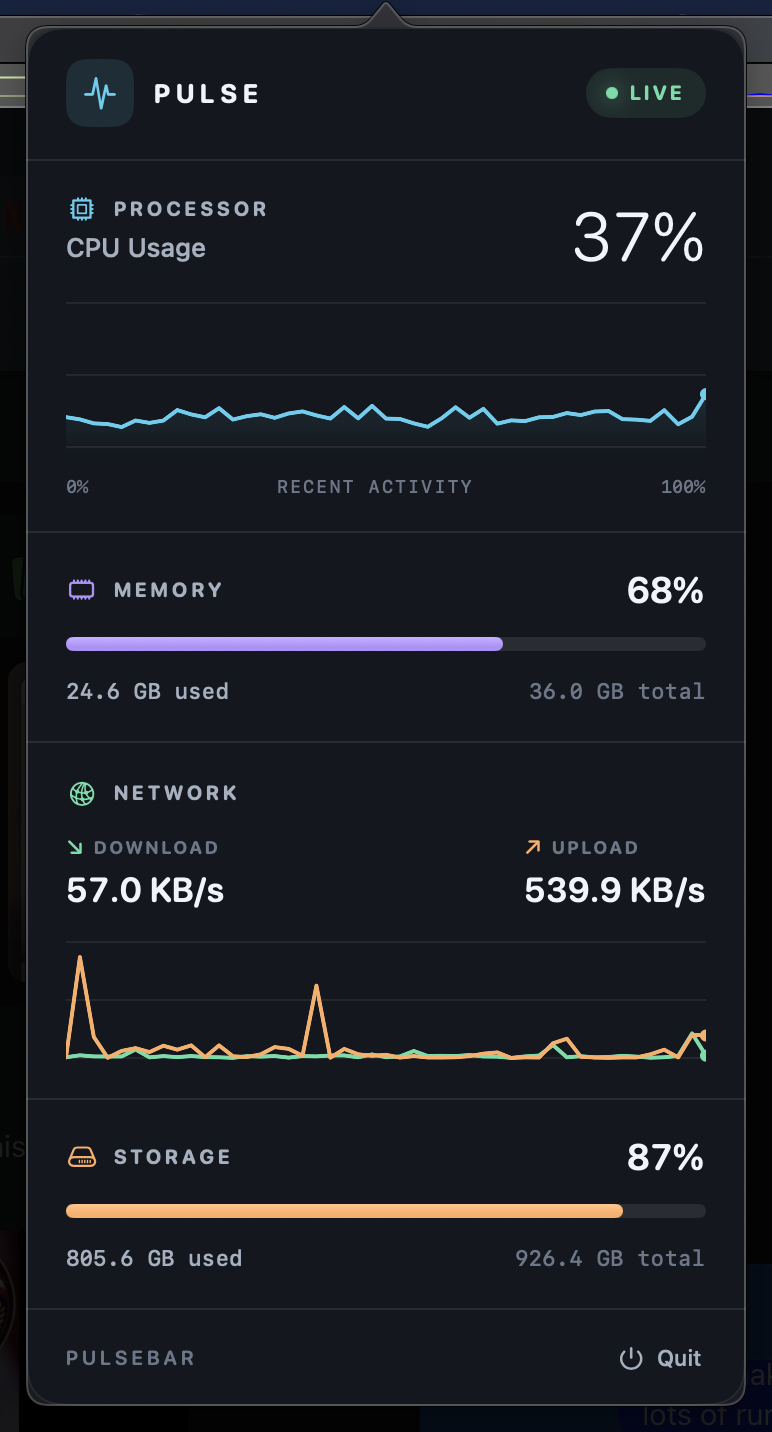
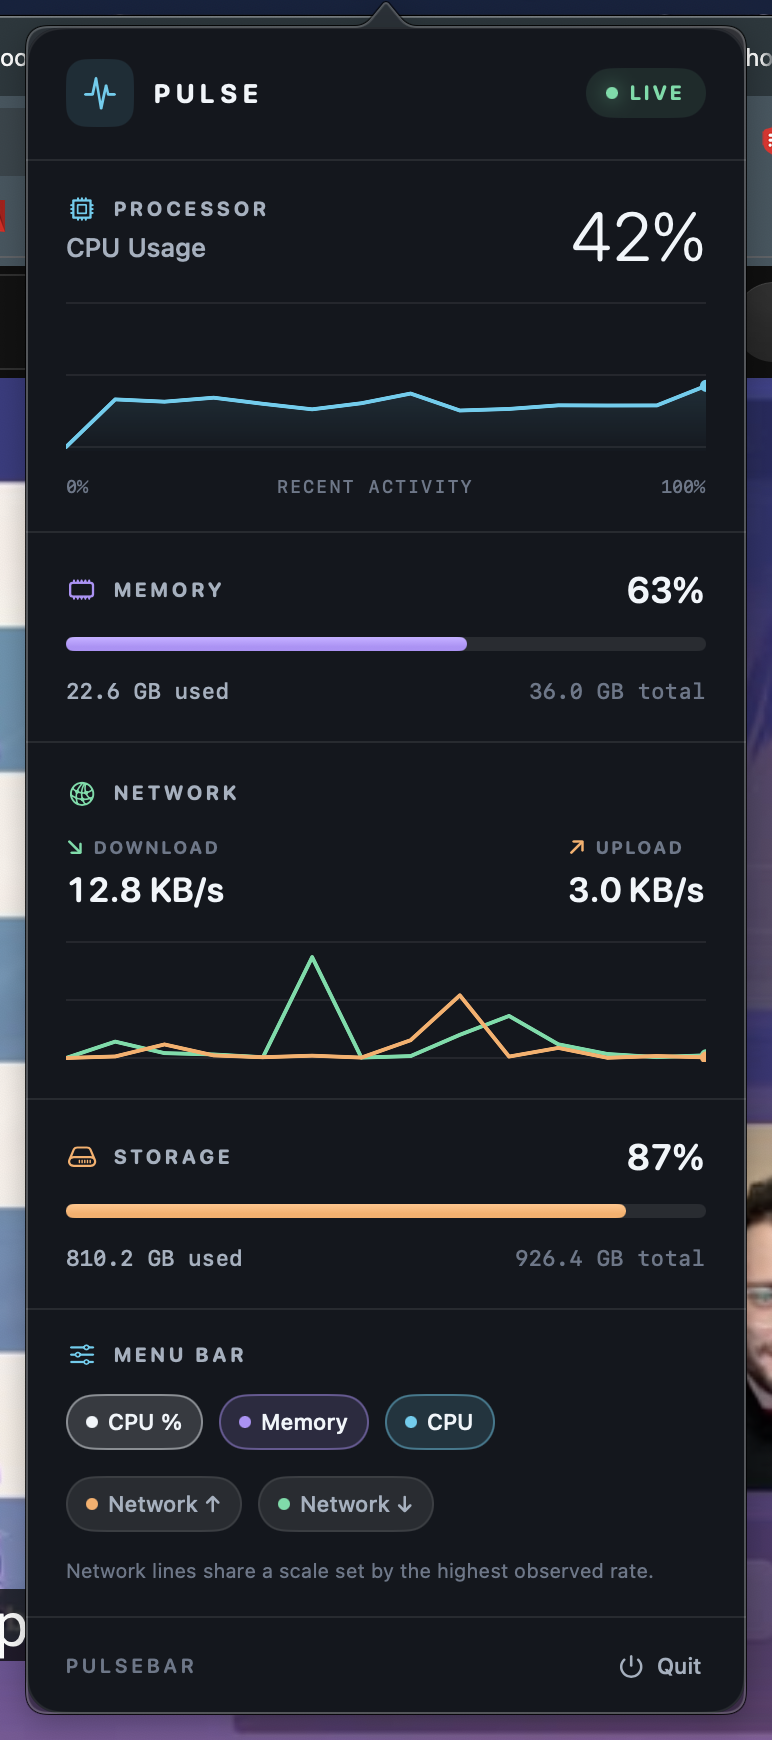
Add persistent menu bar graph and metric controls

diff --git a/Sources/PulseBar/App.swift b/Sources/PulseBar/App.swift
@@ -6,9 +6,11 @@ import SwiftUI
 @MainActor
 final class PulseBarApp: NSObject, NSApplicationDelegate {
     private let store = MonitorStore()
+    private let settings = DisplaySettings()
     private var statusItem: NSStatusItem?
     private let popover = NSPopover()
-    private var subscription: AnyCancellable?
+    private var subscriptions = Set<AnyCancellable>()
+    private var peakNetworkRate: Double = 0
 
     static func main() {
         let app = NSApplication.shared
@@ -30,18 +32,29 @@ final class PulseBarApp: NSObject, NSApplicationDelegate {
         popover.behavior = .transient
         popover.animates = true
         popover.contentSize = NSSize(width: 360, height: 590)
-        popover.contentViewController = NSHostingController(rootView: MonitorView(store: store))
+        popover.contentViewController = NSHostingController(rootView: MonitorView(store: store, settings: settings))
 
-        subscription = store.$history.sink { [weak self] history in
+        store.$history.dropFirst().sink { [weak self] history in
             guard let self else { return }
+            if let last = history.last {
+                self.peakNetworkRate = max(self.peakNetworkRate, last.upload, last.download)
+            }
             self.renderStatus(history)
-        }
+        }.store(in: &subscriptions)
+        settings.objectWillChange.sink { [weak self] _ in
+            // @Published emits before changing its property; render on the next main-loop turn.
+            DispatchQueue.main.async { [weak self] in
+                guard let self else { return }
+                self.renderStatus(self.store.history)
+            }
+        }.store(in: &subscriptions)
+        renderStatus([])
         store.start()
     }
 
     func applicationWillTerminate(_ notification: Notification) {
         store.stop()
-        subscription?.cancel()
+        subscriptions.removeAll()
         if let statusItem { NSStatusBar.system.removeStatusItem(statusItem) }
     }
 
@@ -55,34 +68,63 @@ final class PulseBarApp: NSObject, NSApplicationDelegate {
     }
 
     private func renderStatus(_ history: [MetricSnapshot]) {
-        guard let button = statusItem?.button else { return }
+        guard let item = statusItem, let button = item.button else { return }
         let cpu = history.last?.cpu ?? 0
         let memory = history.last?.memory ?? 0
+        let upload = history.last?.upload ?? 0
+        let download = history.last?.download ?? 0
+        let hasGraph = settings.showsUsageGraph || settings.showsNetworkGraph
+        // Keep a clickable icon even when every metric is switched off.
+        let width: CGFloat = (hasGraph ? 58 : 18) + (settings.cpuPercent ? 37 : 0)
+        item.length = width
         button.imagePosition = .imageOnly
-        button.image = StatusGraph.image(cpu: history.map(\.cpu), memory: history.map(\.memory), label: Int((cpu * 100).rounded()))
-        button.toolTip = "CPU \(Int((cpu * 100).rounded()))% · Memory \(Int((memory * 100).rounded()))% (graph: 0–100%)"
-        button.setAccessibilityValue("CPU \(Int((cpu * 100).rounded())) percent, memory \(Int((memory * 100).rounded())) percent")
+        button.image = StatusGraph.image(history: history, settings: settings, peakNetworkRate: peakNetworkRate)
+        button.toolTip = "CPU \(Int((cpu * 100).rounded()))% · Memory \(Int((memory * 100).rounded()))% · ↓ \(Int(download)) B/s · ↑ \(Int(upload)) B/s"
+        button.setAccessibilityValue("CPU \(Int((cpu * 100).rounded())) percent, memory \(Int((memory * 100).rounded())) percent, download \(Int(download)) bytes per second, upload \(Int(upload)) bytes per second")
     }
 }
 
+@MainActor
 private enum StatusGraph {
-    static func image(cpu: [Double], memory: [Double], label: Int) -> NSImage {
-        let size = NSSize(width: 91, height: 20)
-        let recentCPU = Array(cpu.suffix(30))
-        let recentMemory = Array(memory.suffix(30))
-        return NSImage(size: size, flipped: false) { rect in
-            let fg = NSColor.labelColor
-            let accent = NSColor.systemTeal
-            let secondary = NSColor.systemPurple.withAlphaComponent(0.85)
-            let graph = CGRect(x: 1, y: 3, width: 53, height: 14)
-            drawBackdrop(in: graph)
-            drawLine(recentMemory, in: graph, color: secondary, width: 1.25)
-            drawLine(recentCPU, in: graph, color: accent, width: 1.6)
-            let text = "\(label)%" as NSString
-            text.draw(in: CGRect(x: 58, y: 1, width: 34, height: 17), withAttributes: [
-                .font: NSFont.monospacedDigitSystemFont(ofSize: 11, weight: .semibold),
-                .foregroundColor: fg
-            ])
+    static func image(history: [MetricSnapshot], settings: DisplaySettings, peakNetworkRate: Double) -> NSImage {
+        let samples = Array(history.suffix(30))
+        let hasGraph = settings.showsUsageGraph || settings.showsNetworkGraph
+        let size = NSSize(width: (hasGraph ? 54 : 14) + (settings.cpuPercent ? 37 : 0), height: 20)
+        let label = Int(((samples.last?.cpu ?? 0) * 100).rounded())
+        let cpuEnabled = settings.cpuGraph
+        let memoryEnabled = settings.memoryGraph
+        let upEnabled = settings.networkUp
+        let downEnabled = settings.networkDown
+        let percentEnabled = settings.cpuPercent
+        let networkScale = max(peakNetworkRate, 1)
+        return NSImage(size: size, flipped: false) { _ in
+            if hasGraph {
+                let graph = CGRect(x: 1, y: 3, width: 53, height: 14)
+                drawBackdrop(in: graph)
+                if memoryEnabled {
+                    drawLine(samples.map(\.memory), in: graph, color: NSColor.systemPurple.withAlphaComponent(0.85), width: 1.25)
+                }
+                if downEnabled {
+                    drawLine(samples.map { $0.download / networkScale }, in: graph, color: NSColor.systemGreen, width: 1.35)
+                }
+                if upEnabled {
+                    drawLine(samples.map { $0.upload / networkScale }, in: graph, color: NSColor.systemOrange, width: 1.35)
+                }
+                if cpuEnabled {
+                    drawLine(samples.map(\.cpu), in: graph, color: NSColor.systemTeal, width: 1.6)
+                }
+            } else if !percentEnabled {
+                // Never strand the user with an invisible, unclickable status item.
+                let icon = NSImage(systemSymbolName: "waveform.path.ecg", accessibilityDescription: "PulseBar")
+                icon?.draw(in: CGRect(x: 0, y: 2, width: 14, height: 15))
+            }
+            if percentEnabled {
+                let text = "\(label)%" as NSString
+                text.draw(in: CGRect(x: hasGraph ? 58 : 2, y: 1, width: 34, height: 17), withAttributes: [
+                    .font: NSFont.monospacedDigitSystemFont(ofSize: 11, weight: .semibold),
+                    .foregroundColor: NSColor.labelColor
+                ])
+            }
             return true
         }
     }

diff --git a/Sources/PulseBar/MonitorView.swift b/Sources/PulseBar/MonitorView.swift
@@ -3,6 +3,7 @@ import SwiftUI
 
 struct MonitorView: View {
     @ObservedObject var store: MonitorStore
+    @ObservedObject var settings: DisplaySettings
 
     private var snapshot: MetricSnapshot { store.snapshot }
 
@@ -22,6 +23,8 @@ struct MonitorView: View {
             networkSection
             separator
             diskSection
+            separator
+            displaySection
             separator
             footer
         }
@@ -178,6 +181,47 @@ struct MonitorView: View {
         }
         .padding(.horizontal, 20)
         .padding(.vertical, 18)
+    }
+
+    private var displaySection: some View {
+        VStack(alignment: .leading, spacing: 13) {
+            sectionLabel("MENU BAR", symbol: "slider.horizontal.3", color: Palette.cyan)
+            HStack(spacing: 8) {
+                displayToggle("CPU %", isOn: $settings.cpuPercent, color: Palette.primary)
+                displayToggle("Memory", isOn: $settings.memoryGraph, color: Palette.purple)
+                displayToggle("CPU", isOn: $settings.cpuGraph, color: Palette.cyan)
+            }
+            HStack(spacing: 8) {
+                displayToggle("Network ↑", isOn: $settings.networkUp, color: Palette.orange)
+                displayToggle("Network ↓", isOn: $settings.networkDown, color: Palette.green)
+                Spacer(minLength: 0)
+            }
+            Text("Network lines share a scale set by the highest observed rate.")
+                .font(.system(size: 10))
+                .foregroundStyle(Palette.muted)
+        }
+        .padding(.horizontal, 20)
+        .padding(.vertical, 16)
+    }
+
+    private func displayToggle(_ title: String, isOn: Binding<Bool>, color: Color) -> some View {
+        Toggle(isOn: isOn) {
+            HStack(spacing: 5) {
+                Circle().fill(color).frame(width: 6, height: 6)
+                Text(title).lineLimit(1)
+            }
+            .font(.system(size: 11, weight: .medium))
+        }
+        .toggleStyle(.button)
+        .buttonStyle(.plain)
+        .foregroundStyle(isOn.wrappedValue ? Palette.primary : Palette.secondary)
+        .padding(.horizontal, 10)
+        .padding(.vertical, 7)
+        .background(isOn.wrappedValue ? color.opacity(0.16) : Palette.track, in: Capsule())
+        .overlay(Capsule().strokeBorder(isOn.wrappedValue ? color.opacity(0.45) : Palette.border))
+        .accessibilityLabel(title)
+        .accessibilityValue(isOn.wrappedValue ? "On" : "Off")
+        .help("Show \(title) in the menu bar")
     }
 
     private var footer: some View {

diff --git a/Sources/PulseBar/DisplaySettings.swift b/Sources/PulseBar/DisplaySettings.swift
@@ -1,0 +1,34 @@
+import Foundation
+import Combine
+
+@MainActor
+final class DisplaySettings: ObservableObject {
+    private enum Key {
+        static let cpuPercent = "display.cpuPercent"
+        static let memoryGraph = "display.memoryGraph"
+        static let cpuGraph = "display.cpuGraph"
+        static let networkUp = "display.networkUp"
+        static let networkDown = "display.networkDown"
+    }
+
+    @Published var cpuPercent: Bool { didSet { defaults.set(cpuPercent, forKey: Key.cpuPercent) } }
+    @Published var memoryGraph: Bool { didSet { defaults.set(memoryGraph, forKey: Key.memoryGraph) } }
+    @Published var cpuGraph: Bool { didSet { defaults.set(cpuGraph, forKey: Key.cpuGraph) } }
+    @Published var networkUp: Bool { didSet { defaults.set(networkUp, forKey: Key.networkUp) } }
+    @Published var networkDown: Bool { didSet { defaults.set(networkDown, forKey: Key.networkDown) } }
+
+    private let defaults: UserDefaults
+
+    init(defaults: UserDefaults = .standard) {
+        self.defaults = defaults
+        // Only the existing CPU and memory display is on by default.
+        cpuPercent = defaults.object(forKey: Key.cpuPercent) as? Bool ?? true
+        memoryGraph = defaults.object(forKey: Key.memoryGraph) as? Bool ?? true
+        cpuGraph = defaults.object(forKey: Key.cpuGraph) as? Bool ?? true
+        networkUp = defaults.object(forKey: Key.networkUp) as? Bool ?? false
+        networkDown = defaults.object(forKey: Key.networkDown) as? Bool ?? false
+    }
+
+    var showsUsageGraph: Bool { cpuGraph || memoryGraph }
+    var showsNetworkGraph: Bool { networkUp || networkDown }
+}

diff --git a/Tests/Smoke.swift b/Tests/Smoke.swift
@@ -21,6 +21,23 @@ struct Smoke {
         let count = store.history.count
         try await Task.sleep(for: .seconds(1.2))
         precondition(store.history.count == count, "Timer continued after stop")
-        print("PASS: \(count) live samples; CPU \(Int(sample.cpu * 100))%, RAM \(Int(sample.memory * 100))%, network \(Int(sample.download)) down / \(Int(sample.upload)) up B/s")
+
+        let suite = "PulseBar.Smoke.\(UUID().uuidString)"
+        let defaults = UserDefaults(suiteName: suite)!
+        defer { defaults.removePersistentDomain(forName: suite) }
+        let settings = DisplaySettings(defaults: defaults)
+        precondition(settings.cpuPercent && settings.cpuGraph && settings.memoryGraph)
+        precondition(!settings.networkUp && !settings.networkDown)
+        settings.cpuPercent = false
+        settings.cpuGraph = false
+        settings.memoryGraph = false
+        settings.networkUp = true
+        precondition(!settings.showsUsageGraph && settings.showsNetworkGraph)
+        let restored = DisplaySettings(defaults: defaults)
+        precondition(!restored.cpuPercent && !restored.cpuGraph && !restored.memoryGraph)
+        precondition(restored.networkUp && !restored.networkDown, "Preferences did not persist independently")
+        restored.networkDown = true
+        precondition(restored.networkUp && restored.networkDown)
+        print("PASS: \(count) live samples, independent persistent toggles; CPU \(Int(sample.cpu * 100))%, RAM \(Int(sample.memory * 100))%")
     }
 }

diff --git a/README.md b/README.md
@@ -9,7 +9,8 @@ PulseBar keeps CPU and memory activity in view with two live sparklines. Click t
 ## Highlights
 
 - **At-a-glance activity:** teal CPU and purple memory sparklines, plus a live CPU percentage.
-- **A meaningful scale:** a subtle 0%, 50%, and 100% backdrop makes graph height easy to interpret; hover for exact CPU and memory percentages.
+- **Make it yours:** toggle the CPU percentage and each CPU, memory, download (green), and upload (orange) graph line independently in the **MENU BAR** controls. Your choices persist across launches.
+- **A meaningful scale:** CPU and memory use a subtle 0%, 50%, and 100% backdrop. Network lines share a scale set by the highest rate seen since launch; hover for exact current readings.
 - **Click for detail:** CPU history, memory usage, upload/download rates and history, and root-volume capacity.
 - **Lightweight and native:** one-second sampling, a 60-sample rolling history, an AppKit menu-bar item, and a SwiftUI popover.
 - **Private by design:** metrics are collected locally. No account, analytics, network requests, or third-party packages.
@@ -39,7 +40,8 @@ For a permanent installation, move `build/PulseBar.app` to `/Applications` and l
 swift build
 ./build.sh
 swiftc -swift-version 6 -target "$(uname -m)-apple-macosx13.0" \
-  Sources/PulseBar/Metrics.swift Tests/Smoke.swift -o /tmp/pulsebar-smoke
+  Sources/PulseBar/Metrics.swift Sources/PulseBar/DisplaySettings.swift \
+  Tests/Smoke.swift -o /tmp/pulsebar-smoke
 /tmp/pulsebar-smoke
 ```
 
